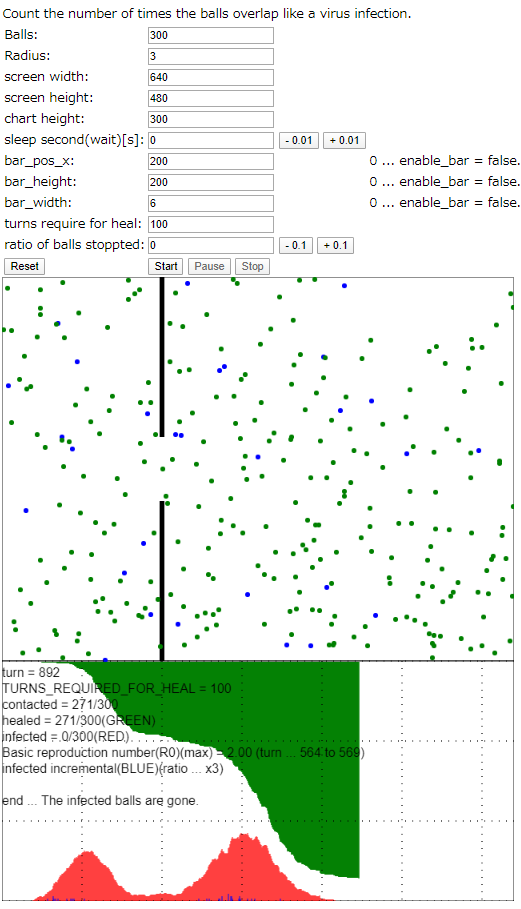
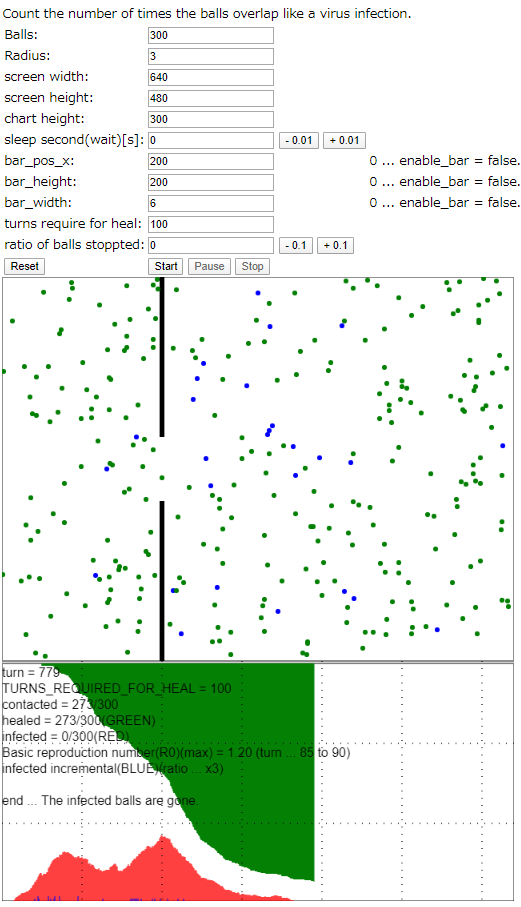
modify init_screen().

diff --git a/index.html b/index.html
@@ -278,29 +278,26 @@ function init_ball_position(PARAMS) {
     return new Position(x, y);
 }
 
-function init_screen(context, SCREEN_WIDTH, SCREEN_HEIGHT, CHART_HEIGHT) {
+function init_screen(context, PARAMS) {
     context.lineWidth = 1;
+    context.shadowColor = "white";
 
-    // clear balls screen.
+    // clear balls and chart screen.
     context.fillStyle = "white";
-    context.fillRect(0, 0, SCREEN_WIDTH, SCREEN_HEIGHT);
+    context.fillRect(0, 0, PARAMS.SCREEN_WIDTH, PARAMS.SCREEN_HEIGHT + PARAMS.RADIUS + PARAMS.CHART_HEIGHT);
 
     // draw horizontal and vertical line for balls.
     context.strokeStyle = "black";
-    context.strokeRect(0, 0, SCREEN_WIDTH, SCREEN_HEIGHT);
-
-    // clear chart screen.
-    context.fillStyle = "white";
-    context.fillRect(0, SCREEN_HEIGHT, SCREEN_WIDTH, SCREEN_HEIGHT + CHART_HEIGHT);
+    context.strokeRect(0, 0, PARAMS.SCREEN_WIDTH, PARAMS.SCREEN_HEIGHT);
 
     // draw horizontal and vertical line for chart.
     context.strokeStyle = "black";
-    context.strokeRect(0, SCREEN_HEIGHT, SCREEN_WIDTH,  SCREEN_HEIGHT + CHART_HEIGHT);
+    context.strokeRect(0, PARAMS.SCREEN_HEIGHT + PARAMS.RADIUS, PARAMS.SCREEN_WIDTH, PARAMS.SCREEN_HEIGHT + PARAMS.RADIUS + PARAMS.CHART_HEIGHT);
 
     // draw lower line.
     context.beginPath();
-    context.moveTo(0, SCREEN_HEIGHT + CHART_HEIGHT);
-    context.lineTo(SCREEN_WIDTH, SCREEN_HEIGHT + CHART_HEIGHT);
+    context.moveTo(0, PARAMS.SCREEN_HEIGHT + PARAMS.CHART_HEIGHT);
+    context.lineTo(PARAMS.SCREEN_WIDTH, PARAMS.SCREEN_HEIGHT + PARAMS.CHART_HEIGHT);
     context.stroke();
 }
 
@@ -409,7 +406,7 @@ function calc(balls_max, radius, screen_width, screen_height, chart_height, slee
             return;
         }
 
-        init_screen(context, PARAMS.SCREEN_WIDTH, PARAMS.SCREEN_HEIGHT, PARAMS.CHART_HEIGHT);
+        init_screen(context, PARAMS);
 
         // heal check.
         if (turn > 0) {
@@ -524,8 +521,8 @@ function calc(balls_max, radius, screen_width, screen_height, chart_height, slee
 
             for (var i = 0; i < results.length; i++) {
                 var x = Math.ceil(results[i].turn/DRAW_RATIO.WIDTH);
-                var y_infected = PARAMS.SCREEN_HEIGHT + PARAMS.CHART_HEIGHT + PARAMS.RADIUS;
-                var y_healed = PARAMS.SCREEN_HEIGHT + 1;
+                var y_infected = PARAMS.SCREEN_HEIGHT + PARAMS.RADIUS + PARAMS.CHART_HEIGHT;
+                var y_healed = PARAMS.SCREEN_HEIGHT + PARAMS.RADIUS;
 
                 // draw infected line to lower.
                 context.strokeStyle = "red";
@@ -657,12 +654,11 @@ function draw_scale_line(context, PARAMS) {
     for (var x = 100; x < PARAMS.SCREEN_WIDTH; x += 100) {
         context.beginPath();
         context.moveTo(x, PARAMS.SCREEN_HEIGHT);
-        context.lineTo(x, PARAMS.SCREEN_HEIGHT + PARAMS.CHART_HEIGHT + PARAMS.RADIUS);
+        context.lineTo(x, PARAMS.SCREEN_HEIGHT + PARAMS.RADIUS + PARAMS.CHART_HEIGHT);
         context.stroke();
     }
 
-    for (var y = PARAMS.SCREEN_HEIGHT; y < PARAMS.SCREEN_HEIGHT + PARAMS.CHART_HEIGHT + PARAMS.RADIUS; y += 100) {
-        context.beginPath();
+    for (var y = PARAMS.SCREEN_HEIGHT + PARAMS.RADIUS + 100; y < PARAMS.SCREEN_HEIGHT + PARAMS.RADIUS + PARAMS.CHART_HEIGHT; y += 100) {
         context.beginPath();
         context.moveTo(0, y);
         context.lineTo(PARAMS.SCREEN_WIDTH, y);
@@ -753,7 +749,9 @@ var vm = new Vue({
         canvas.height = this.screen_height + this.max_balls;
 
         var context = canvas.getContext('2d');
-        init_screen(context, this.screen_width, this.screen_height, this.max_balls);
+
+        PARAMS = new Params(null, null, this.radius, this.screen_width, this.screen_height, this.chart_height, null, null, null, null, null, null);
+        init_screen(context, PARAMS);
     },
     methods: {
         clickReset: function() {
